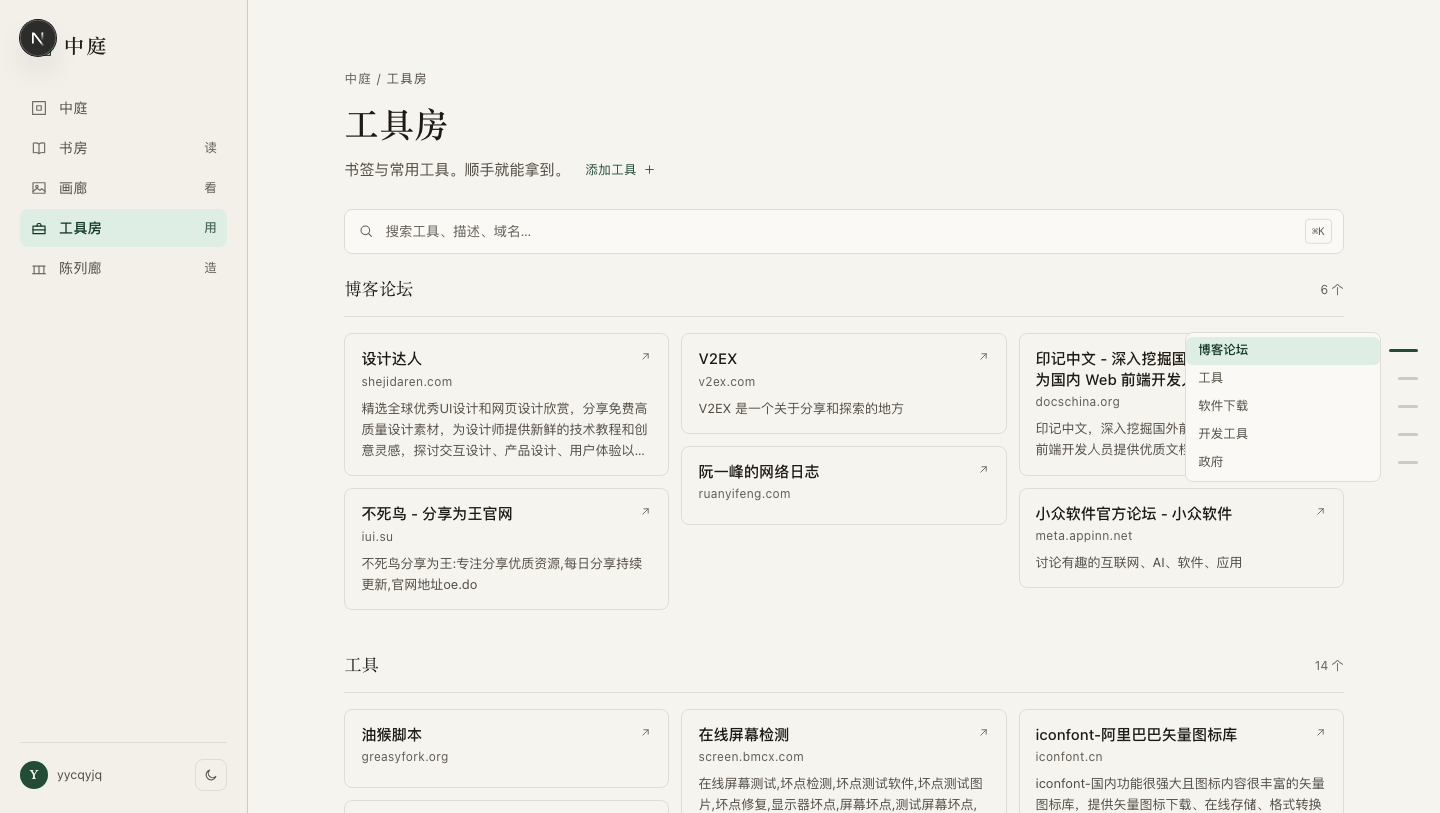
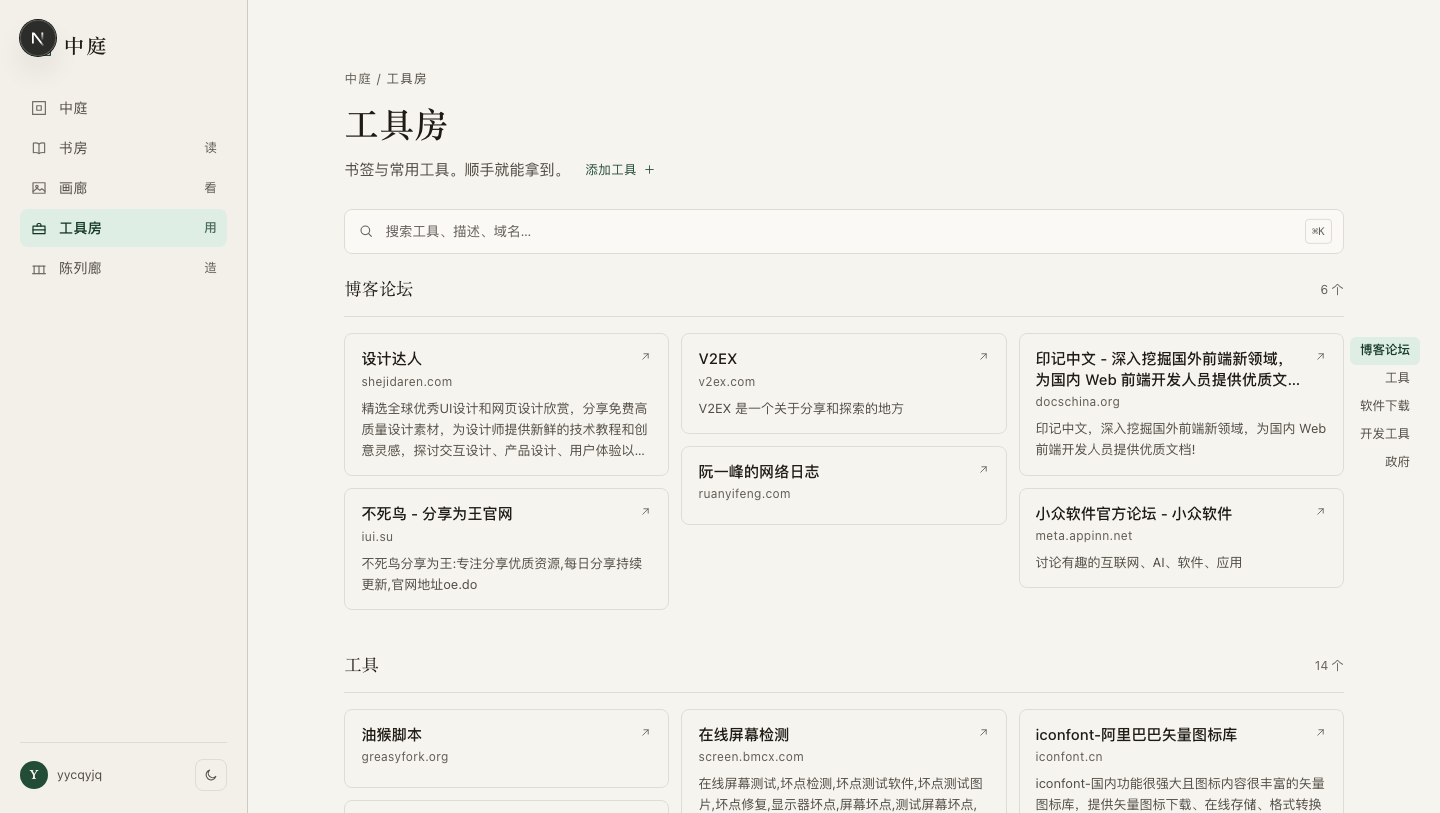
fix(tools): 楼层目录改为形变交互——横杠原位变成标题（非弹出菜单）
- 悬停：横杠原位收拢（宽度→0）、同位置浮现标题文字（opacity+translate，200ms）
- 关键指标：nav 宽度全程 44px 不变（零布局位移、不跳动）
- 移出：标题缩回横杠（原样恢复）；点击跳转/滚动高亮/底部归位逻辑不变
- 验证（CDP 真实环境）：label opacity 0→1、bar 宽 20→0→20、nav 宽恒 44；
  视觉评审：标题直接浮于页面、无菜单面板、当前项浅色高亮、轻量无遮挡

Changed region(s): [[0.8125, 0.3998, 1.0, 0.5843], [0.9375, 0.3998, 0.9688, 0.4613]]

diff --git a/src/components/shell/FloorNav.tsx b/src/components/shell/FloorNav.tsx
@@ -9,16 +9,15 @@ const BAR_WIDTH: Record<number, number> = { 1: 20, 2: 13, 3: 9 };
 const CURRENT_EXTRA = 9;
 
 /**
- * 右侧轻量楼层跳转目录。
+ * 右侧轻量楼层跳转目录（形变版）。
  *
- * - 默认：极简小横杠（右侧竖排，按层级长短缩进），当前楼层高亮（更长更亮），
- *   所在层级的所有父级弱高亮；
- * - 悬停 / 键盘聚焦：平滑展开标题列表（层级缩进），当前项高亮、父级弱高亮，
- *   光标在横杠与文字之间移动不会误收起；
- * - 点击：平滑滚动到目标楼层（带顶部偏移），立即更新高亮并同步地址栏（不跳动）；
- * - 滚动：自动判定当前楼层（含页面底部归最后一层），窗口缩放后重算。
+ * - 默认：竖排小横杠，当前楼层更长更亮（主题色），父级弱高亮；
+ * - 悬停 / 键盘聚焦：横杠原地收拢、同位浮出标题文字（纯 opacity/transform，无布局位移，
+ *   不跳动、不遮挡式的菜单面板）；移开后文字缩回横杠；
+ * - 点击：平滑滚动到对应楼层（带顶部偏移），立即高亮并同步地址栏（不跳页）；
+ * - 滚动：自动判定当前楼层（底部归最后一项），窗口缩放与结构变化后重算。
  *
- * 挂在任意内容容器上：给容器加 `data-floor-nav`，组件扫描其中的 h2/h3/h4（最多三级）。
+ * 挂载：给内容容器加 `data-floor-nav`，组件扫描其中的 h2/h3/h4（最多三级）。
  */
 export default function FloorNav() {
   const [items, setItems] = useState<FloorItem[]>([]);
@@ -126,7 +125,7 @@ export default function FloorNav() {
   return (
     <nav
       aria-label="楼层目录"
-      className="fixed right-5 top-1/2 z-40 hidden -translate-y-1/2 xl:flex"
+      className="fixed right-5 top-1/2 z-40 hidden -translate-y-1/2 xl:block"
       onMouseEnter={() => {
         cancelClose();
         setExpanded(true);
@@ -143,64 +142,55 @@ export default function FloorNav() {
         if (!event.currentTarget.contains(event.relatedTarget as Node)) setExpanded(false);
       }}
     >
-      <div className="flex items-center">
-        {/* 展开面板：宽度平滑过渡（横杠位置不动，无跳动） */}
-        <div
-          aria-hidden={!expanded}
-          className={`overflow-hidden transition-[width,opacity] duration-200 ease-out ${
-            expanded ? "w-[196px] opacity-100" : "w-0 opacity-0"
-          }`}
-        >
-          <ul className="max-h-[62vh] w-[196px] overflow-y-auto rounded-ctl border border-line bg-raised py-1">
-            {items.map((item, i) => {
-              const isCurrent = i === current;
-              const isAncestor = ancestors.has(i);
-              return (
-                <li key={item.id}>
-                  <button
-                    type="button"
-                    data-floor-row
-                    data-state={isCurrent ? "current" : isAncestor ? "ancestor" : "idle"}
-                    tabIndex={expanded ? 0 : -1}
-                    onClick={() => jump(i)}
-                    className={`flex h-7 w-full items-center truncate rounded-[6px] pr-3 text-left text-[12.5px] leading-normal transition-colors duration-150 ${
-                      item.level === 1 ? "pl-3" : item.level === 2 ? "pl-7" : "pl-11"
-                    } ${
-                      isCurrent
-                        ? "bg-accent-soft font-medium text-accent-ink"
-                        : isAncestor
-                          ? "text-accent/55"
-                          : "text-ink-2 hover:bg-wash hover:text-accent"
-                    }`}
-                  >
-                    {item.title}
-                  </button>
-                </li>
-              );
-            })}
-          </ul>
-        </div>
-
-        {/* 横杠列（收起状态本体）：行高与面板行一致，逐行对齐 */}
-        <span className="ml-2 flex flex-col items-end py-1 pr-0.5">
-          {items.map((item, i) => {
-            const isCurrent = i === current;
-            const isAncestor = ancestors.has(i);
-            return (
-              <span key={item.id} aria-hidden className="flex h-7 items-center justify-end">
+      <ul className="flex flex-col items-end">
+        {items.map((item, i) => {
+          const isCurrent = i === current;
+          const isAncestor = ancestors.has(i);
+          return (
+            <li key={item.id} className="h-7">
+              <button
+                type="button"
+                data-floor-row
+                data-state={isCurrent ? "current" : isAncestor ? "ancestor" : "idle"}
+                tabIndex={expanded ? 0 : -1}
+                onClick={() => jump(i)}
+                aria-label={item.title}
+                className="relative flex h-7 w-[44px] cursor-pointer items-center justify-end outline-none"
+              >
+                {/* 标题（悬停态）：与横杠同一位置形变浮现，不产生布局位移 */}
                 <span
+                  aria-hidden
+                  data-floor-label
+                  className={`absolute right-0 flex h-7 items-center whitespace-nowrap rounded-[6px] px-2.5 text-[12.5px] leading-none transition-[opacity,transform] duration-200 ease-out ${
+                    expanded ? "translate-x-0 opacity-100" : "translate-x-[4px] opacity-0"
+                  } ${
+                    isCurrent
+                      ? "bg-accent-soft font-medium text-accent-ink"
+                      : isAncestor
+                        ? "bg-surface/90 text-accent/55"
+                        : "bg-surface/90 text-ink-2 hover:text-accent"
+                  }`}
+                >
+                  {item.title}
+                </span>
+
+                {/* 横杠（收起态） */}
+                <span
+                  aria-hidden
                   data-floor-bar
                   data-state={isCurrent ? "current" : isAncestor ? "ancestor" : "idle"}
-                  style={{ width: (BAR_WIDTH[item.level] ?? 12) + (isCurrent ? CURRENT_EXTRA : 0) }}
+                  style={{ width: expanded ? 0 : (BAR_WIDTH[item.level] ?? 12) + (isCurrent ? CURRENT_EXTRA : 0) }}
                   className={`block rounded-full transition-all duration-200 ${
                     item.level === 1 ? "h-[3px]" : "h-[2.5px]"
-                  } ${isCurrent ? "bg-accent" : isAncestor ? "bg-accent/40" : "bg-line-strong"}`}
+                  } ${expanded ? "opacity-0" : "opacity-100"} ${
+                    isCurrent ? "bg-accent" : isAncestor ? "bg-accent/40" : "bg-line-strong"
+                  }`}
                 />
-              </span>
-            );
-          })}
-        </span>
-      </div>
+              </button>
+            </li>
+          );
+        })}
+      </ul>
     </nav>
   );
 }
